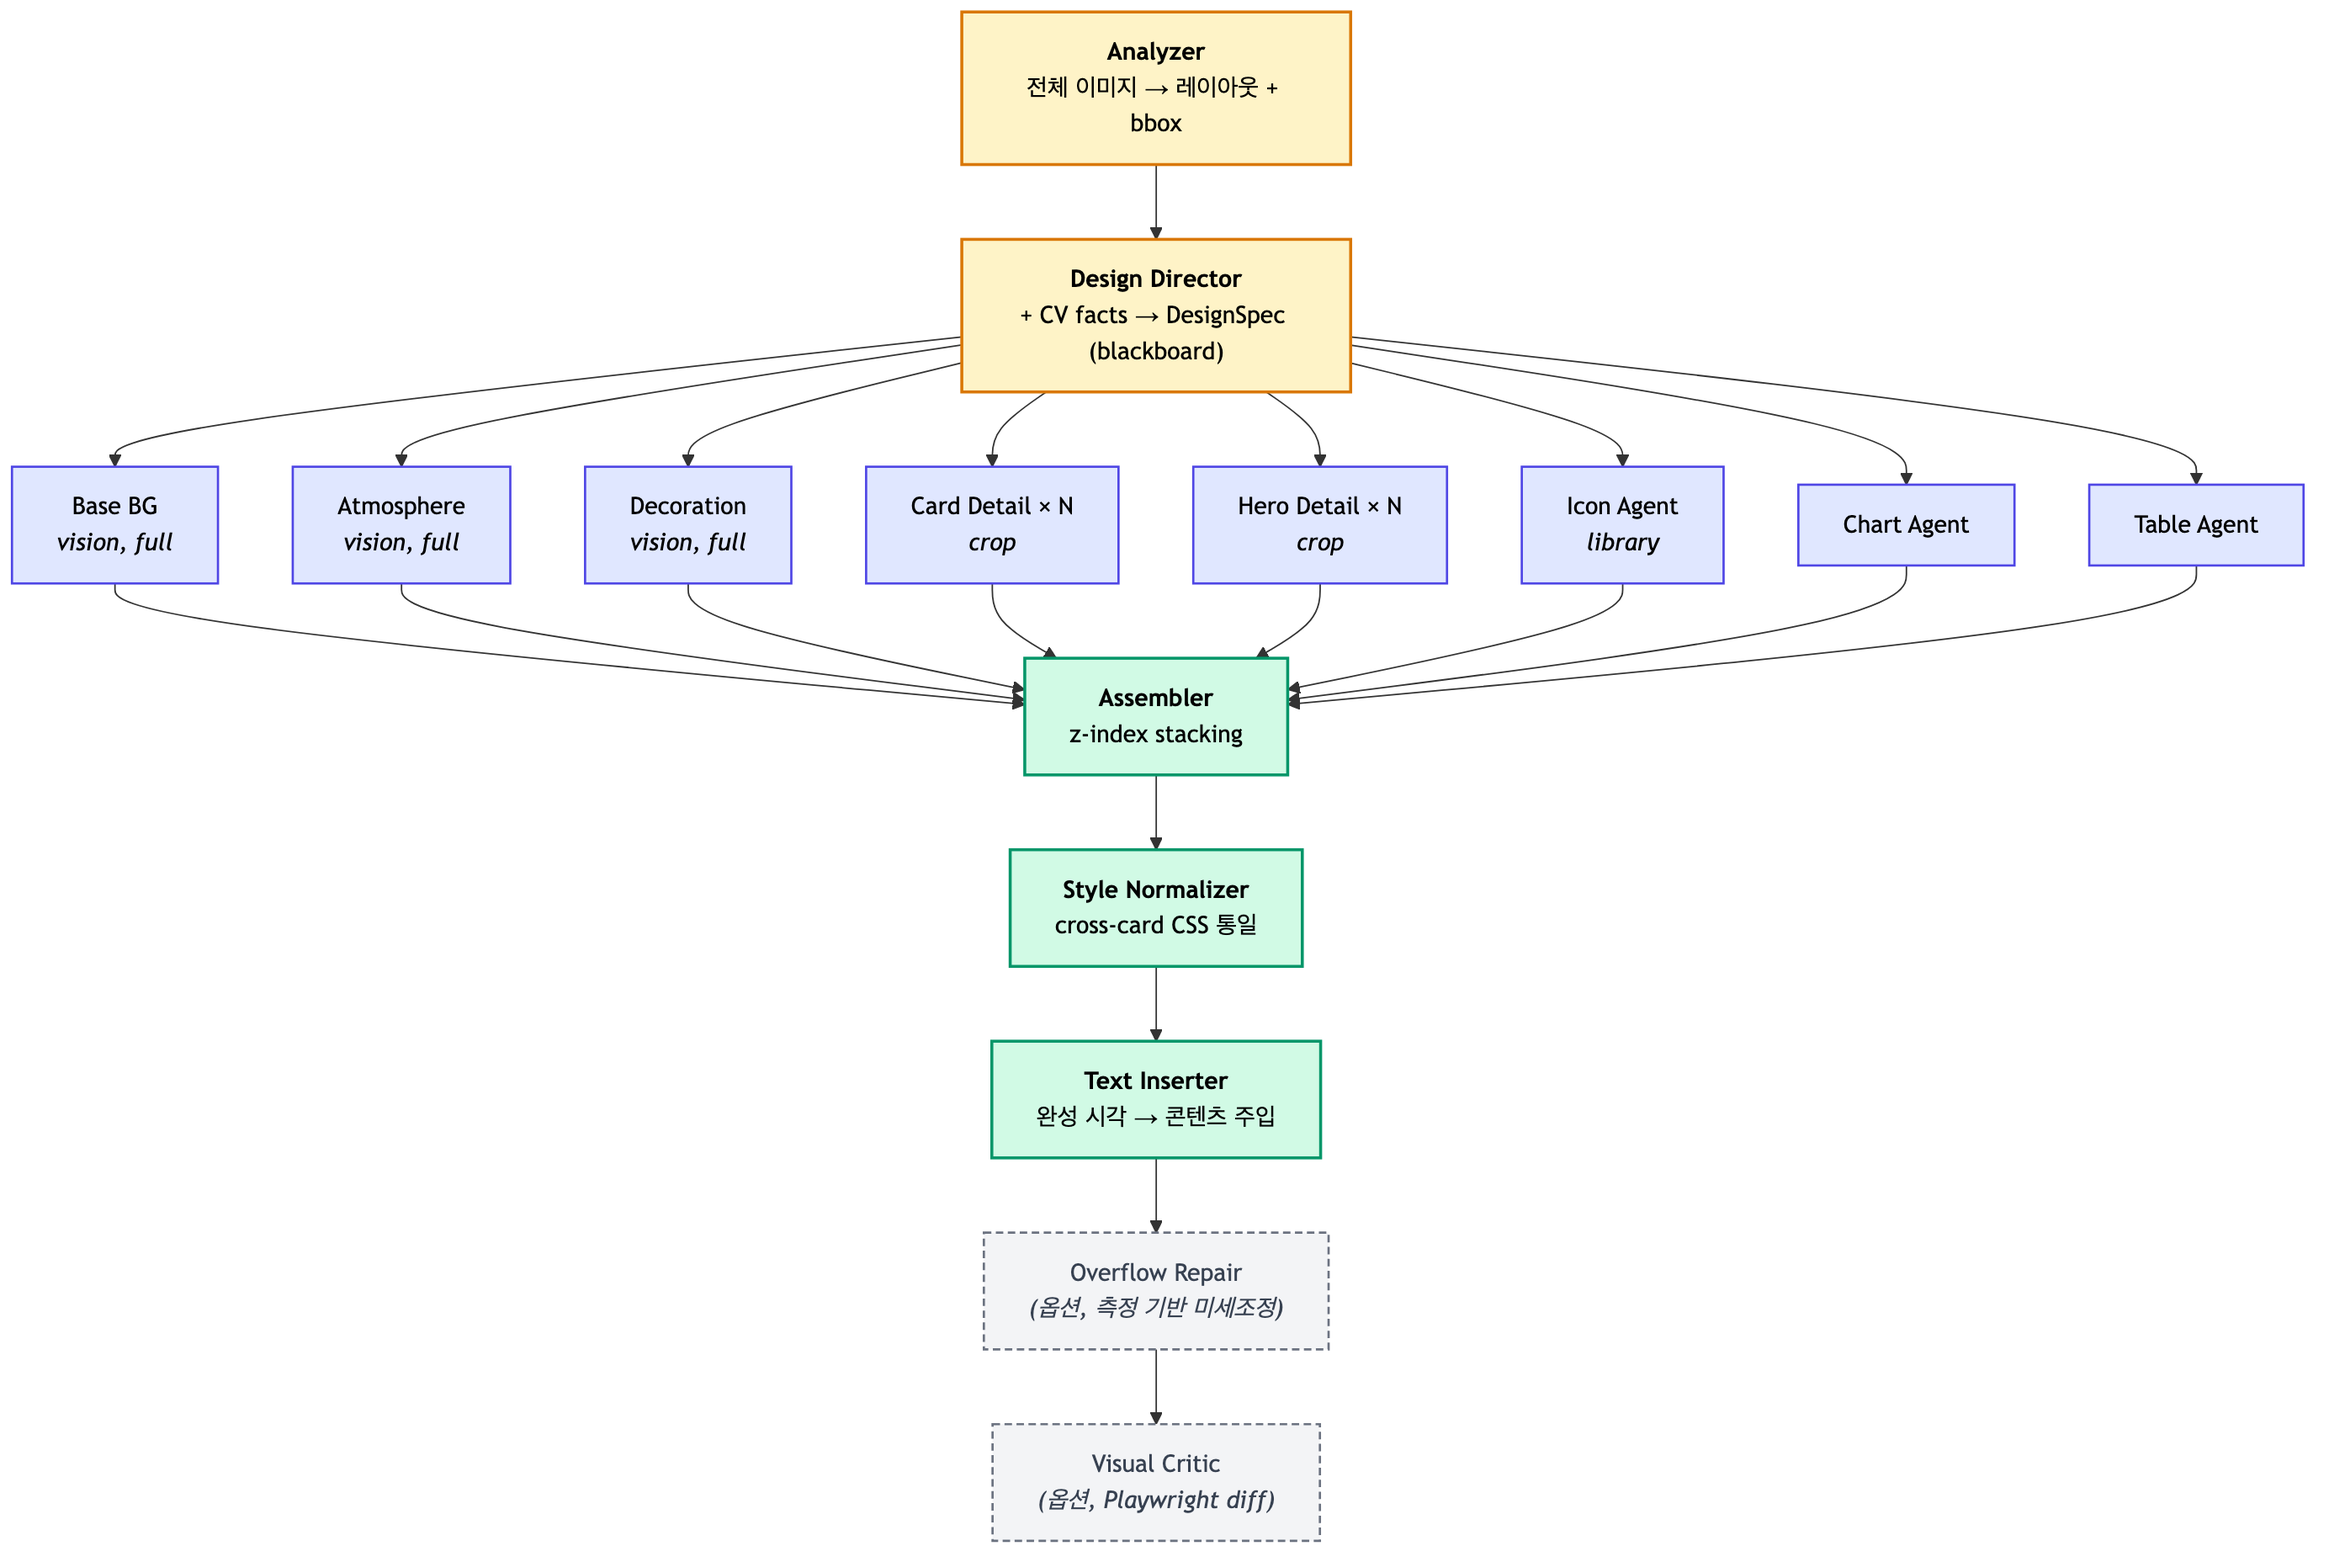
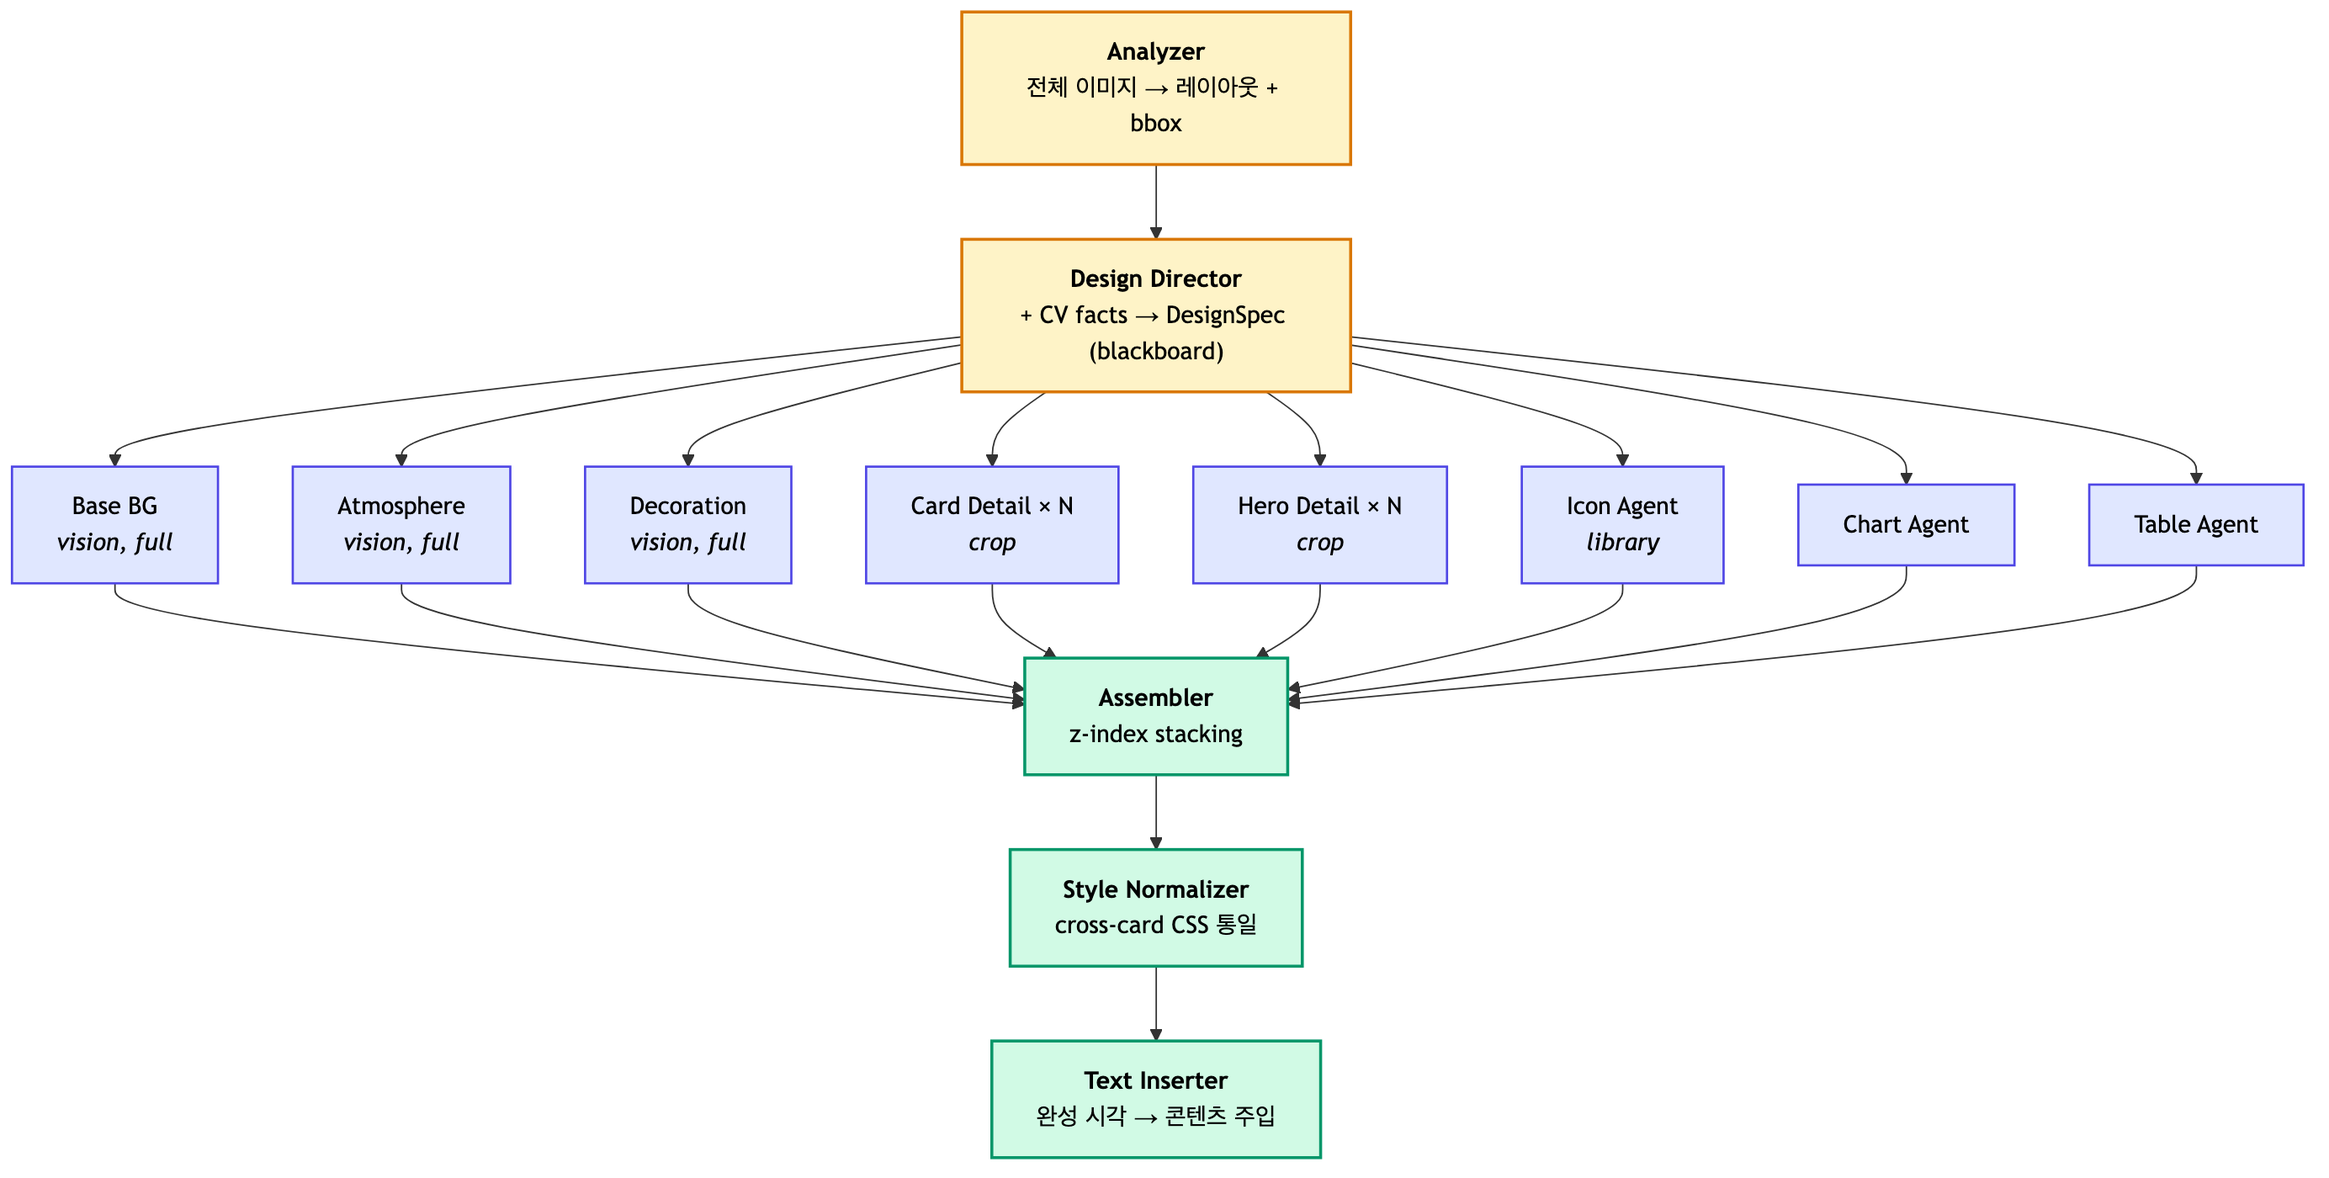
Drop optional stages from Figure 5 architecture diagram
Remove Overflow Repair and Visual Critic from the architecture diagram.
Both are marked "(선택)" in §4.8–§4.9 and are disabled in every
experiment reported in §6 (no run uses them). Keeping them in the
architecture invites readers to wonder whether reported metrics
benefit from them. The diagram now matches the measurement scope.

Caption updated to "측정 대상 파이프라인" and notes that the optional
stages are described separately in §4.8–§4.9.

diff --git a/paper_draft_ko.md b/paper_draft_ko.md
@@ -148,7 +148,7 @@ Main 측정 — 다면적 평가 방식 (§5.3):
 
 ![Figure 5: LayerAgent architecture](results/figures/layeragent_architecture.png)
 
-Figure 5. LayerAgent 전체 파이프라인. Stage 0 (Analyzer, Design Director)에서 레이아웃과 DesignSpec blackboard를 산출한 뒤, Stage 1의 8개 specialist agent가 병렬로 layer 단편을 생성한다. Stage 2의 Assembler가 결정적 z-index 순서로 조립하고, Style Normalizer가 카드 간 CSS를 통일하며, Text Inserter가 시각 디자인 확정 후 콘텐츠를 주입한다. Overflow Repair와 Visual Critic은 선택 단계이다.
+Figure 5. LayerAgent의 측정 대상 파이프라인. Stage 0 (Analyzer, Design Director)에서 레이아웃과 DesignSpec blackboard를 산출한 뒤, Stage 1의 8개 specialist agent가 병렬로 layer 단편을 생성한다. Stage 2의 Assembler가 결정적 z-index 순서로 조립하고, Style Normalizer가 카드 간 CSS를 통일하며, Text Inserter가 시각 디자인 확정 후 콘텐츠를 주입한다. 본 논문의 모든 측정은 이 6단계 위에서 수행되며, 시스템에 포함된 선택 단계(Overflow Repair, Visual Critic)는 §4.8–§4.9에서 별도 기술된다.
 
 전체 파이프라인은 LangGraph StateGraph로 구현되었으며, 8개 specialist는 Design Director의 출력 이후 병렬로 실행된다.
 
